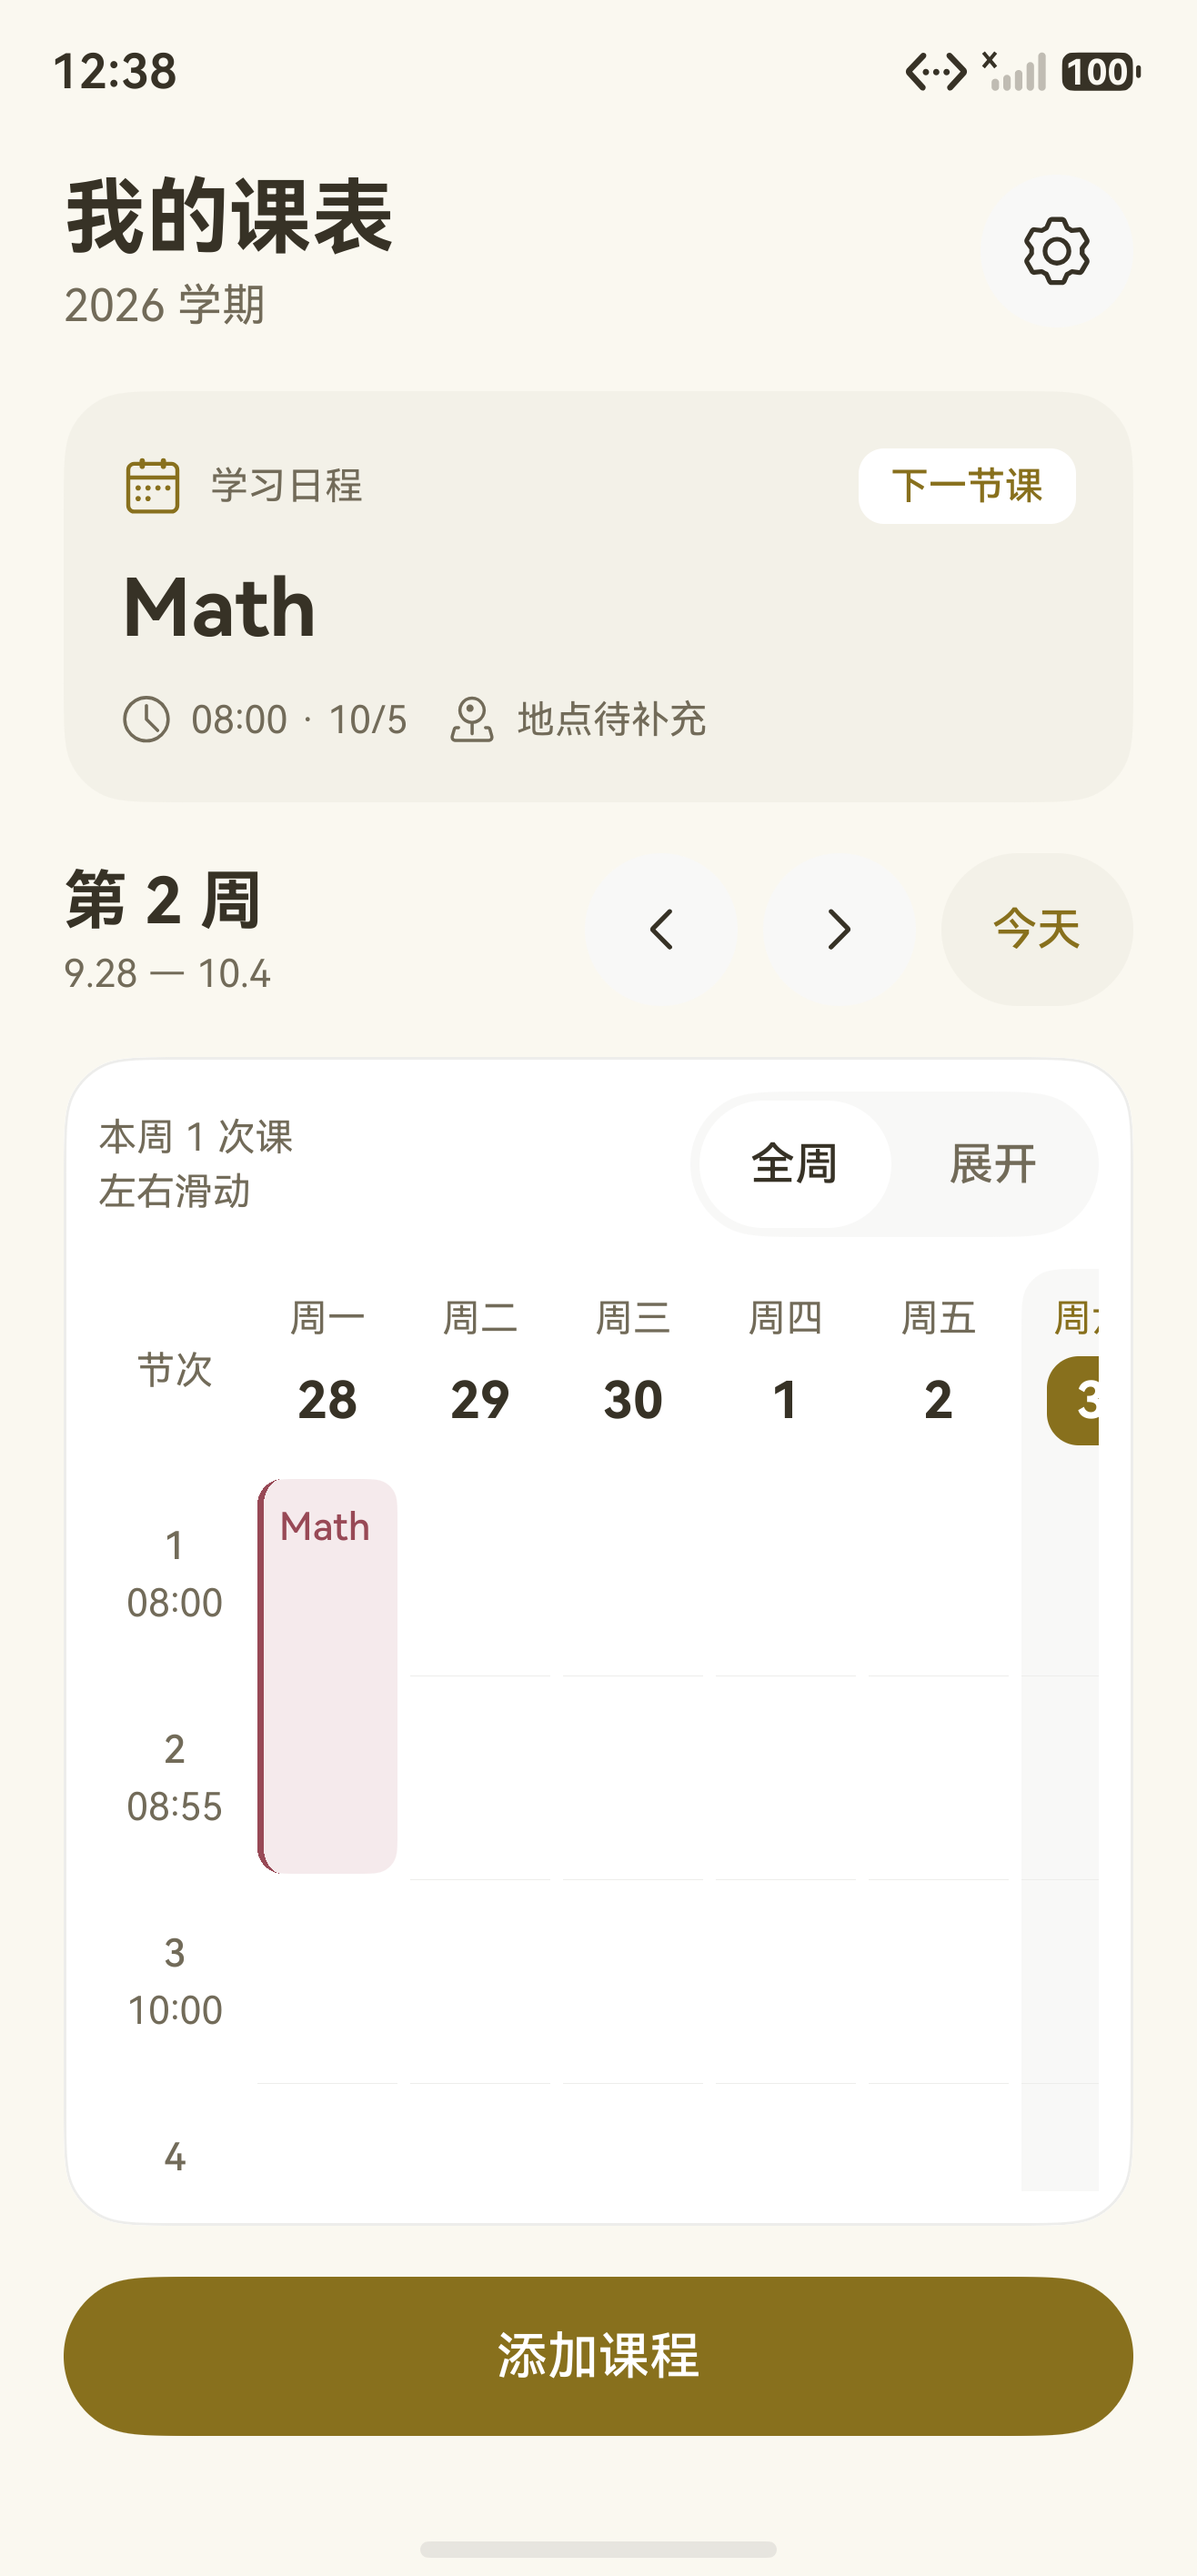
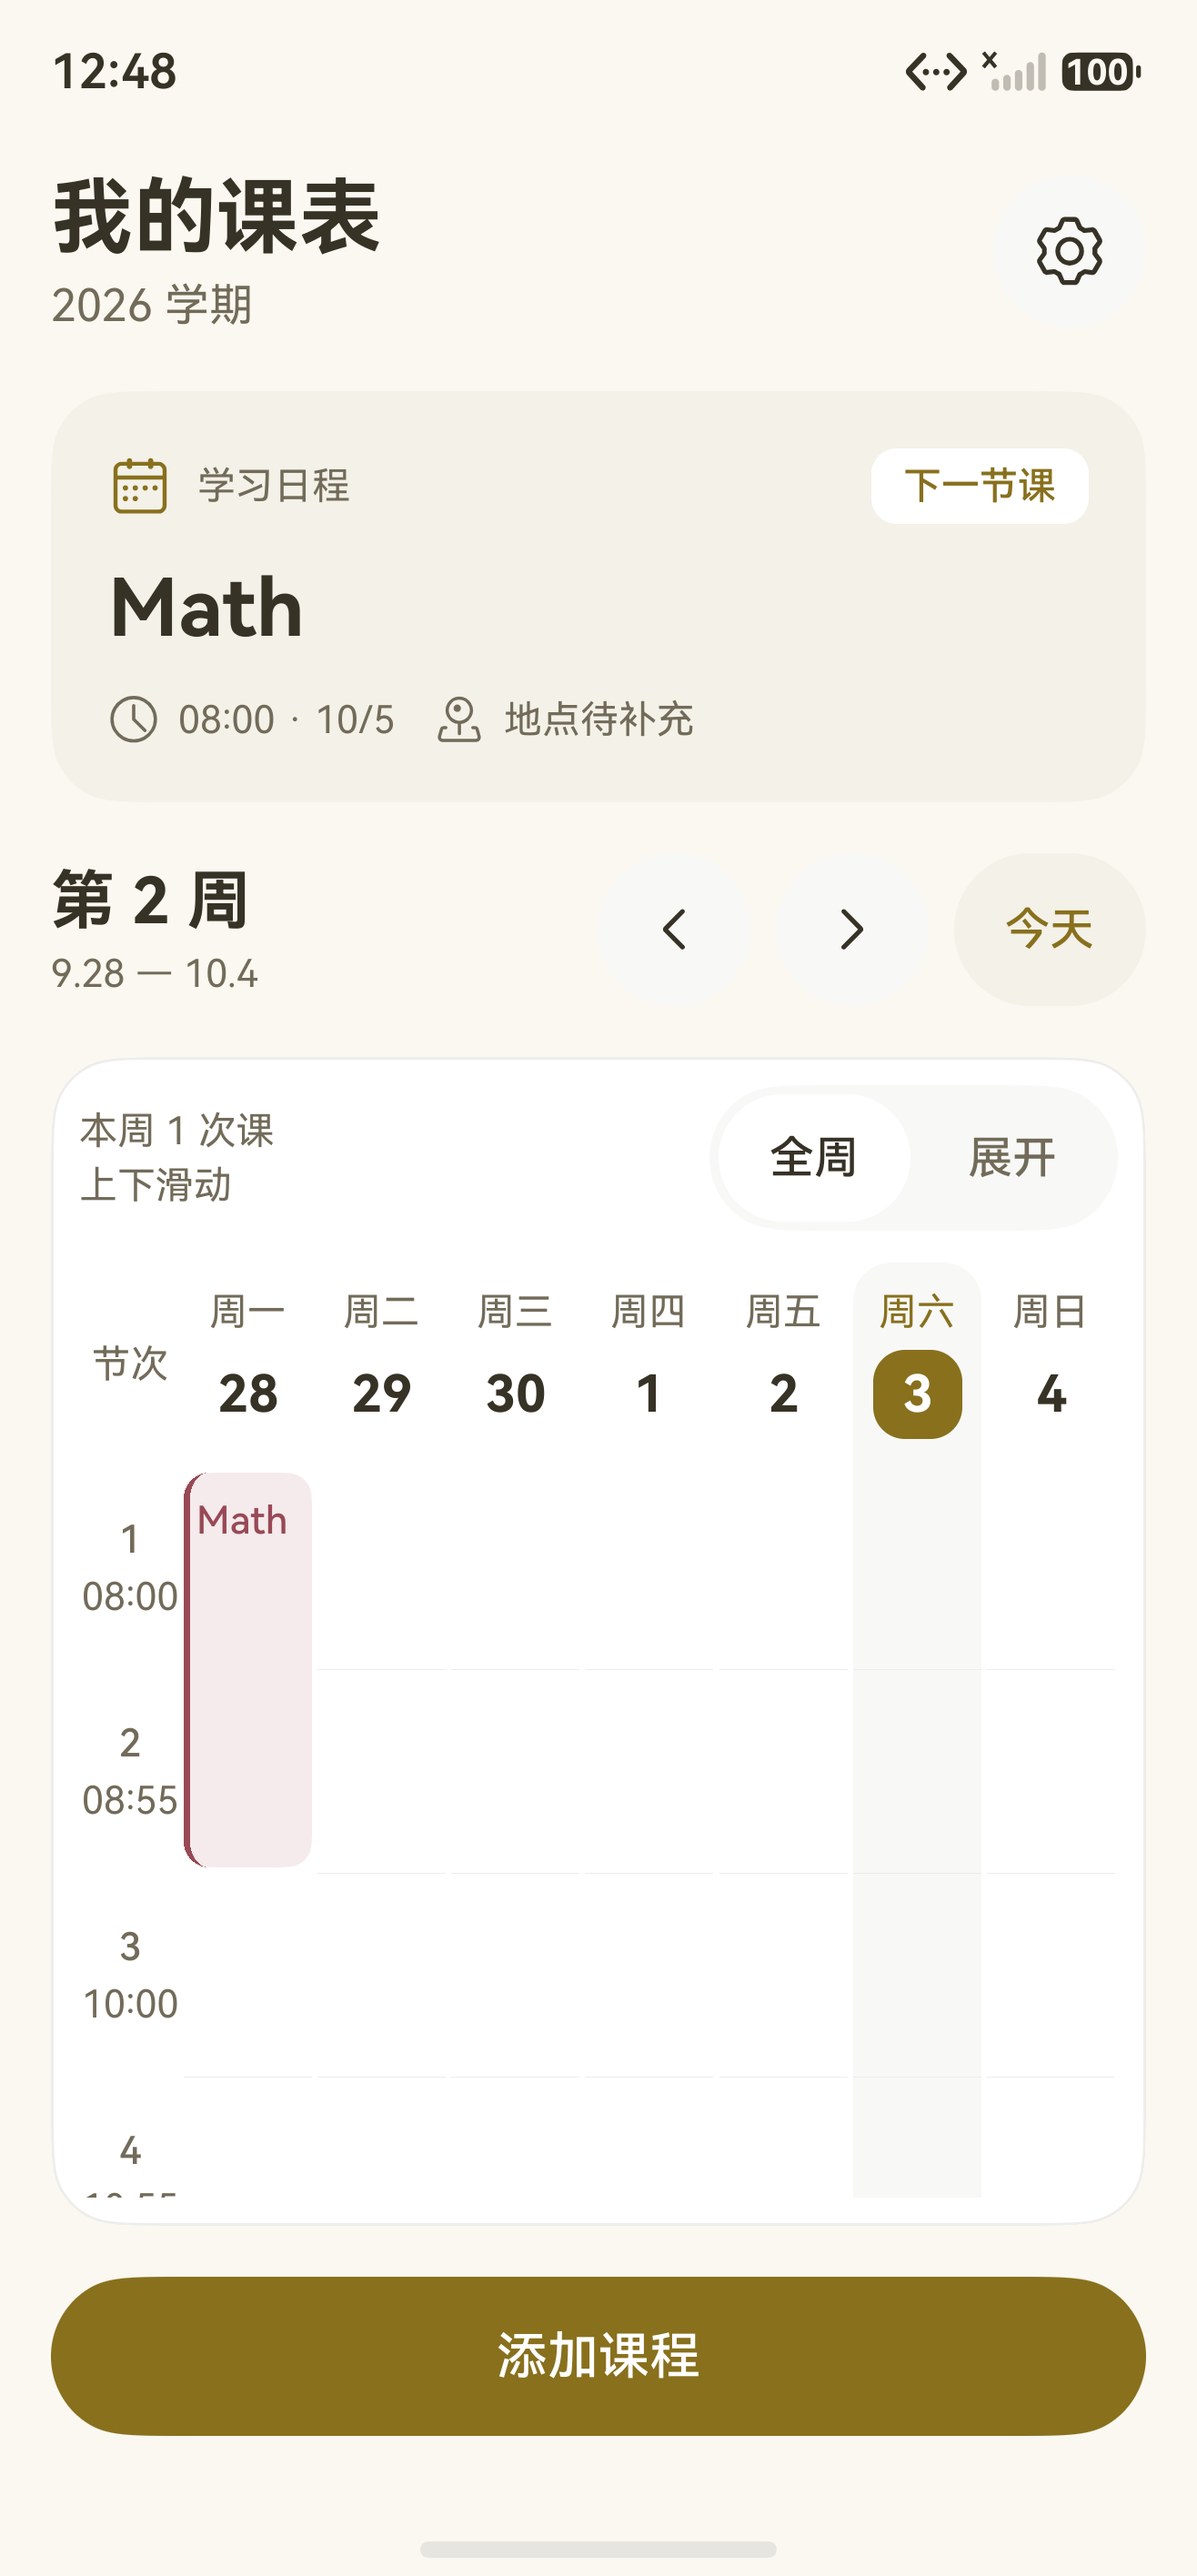
Fix full-week timetable clipping and reset horizontal scroll

diff --git a/README.md b/README.md
@@ -8,7 +8,7 @@
 - 课程添加、编辑、删除、冲突提示；全周、单双周、自定义周次；周视图、课程详情半模态、学期与作息设置。
 - 10 套主题、跟随系统深色模式。
 - 六个页面统一使用柔和配色、HarmonyOS Symbol 系统图标、圆角卡片与清晰的文字层级；课程使用浅色底与彩色边线。
-- 全周视图保持完整的七天结构，窄屏可横向浏览，可切换展开视图阅读更宽的课程卡片；节次区域支持纵向滚动。今日日期、当前节次与下一节课状态自动突出显示。
+- 全周视图按可用宽度完整显示七天；展开视图使用较宽的课程卡片并支持横向浏览，切回全周时恢复到左侧。节次区域支持纵向滚动。今日日期、当前节次与下一节课状态自动突出显示。
 - 页面进入与主题切换使用短过渡；切周、按钮按压和课程选项使用 ArkUI 原生弹簧曲线；课程详情使用内容自适应的原生半模态。
 - 下一节课、今日课程、完整周课表三类桌面卡片，各支持两种尺寸；TextClock 分钟级状态重算，数据变更时主动推送，跨天定点刷新。
 - 可选系统日历同步：申请日历权限、使用独立日历账户、按有效教学周展开日程、提供 5/10/15/30 分钟课前提醒、关闭时移除专属日历。
@@ -35,7 +35,7 @@
 
 - [标题栏](https://developer.huawei.com/consumer/cn/doc/design-guides/titlebar-0000001929628982)：首页以课表图形内容为主，采用 56 vp 普通双行标题区；二级页采用 56 vp 标题栏，说明文字放在栏下，返回入口保持一致。
 - [HarmonyOS Symbol](https://developer.huawei.com/consumer/cn/doc/design-guides/system-icons-0000001929854962)：通过 `SymbolGlyph` 使用系统图标，颜色随主题变化，装饰图标不单独进入无障碍焦点。
-- [应用 UX 体验检查](https://developer.huawei.com/consumer/cn/doc/guidebook/solution7-0000002601693441)：按点击热区至少 40 × 40 vp 的要求调整颜色、星期、节次、视图切换与关闭按钮；颜色选择采用两行布局，课表课程列宽至少 44 vp。
+- [应用 UX 体验检查](https://developer.huawei.com/consumer/cn/doc/guidebook/solution7-0000002601693441)：按点击热区至少 40 × 40 vp 的要求调整颜色、星期、节次、视图切换与关闭按钮；颜色选择采用两行布局。全周课程列随屏幕宽度分配，窄屏和大字号下可切换展开视图阅读课程名和地点。
 - [鸿蒙黑体](https://developer.huawei.com/consumer/cn/doc/design-guides/font-0000001828772001)：保留系统字体，以字重和字号区分信息层级。项目自定辅助文字下限为 12 fp，输入及主要操作为 16 fp；这里的 12 fp 是本项目的设计选择。
 - [动效属性](https://developer.huawei.com/consumer/cn/doc/design-guides/animation-attributes-0000001797117229)与[插值计算](https://developer.huawei.com/consumer/cn/doc/harmonyos-references/js-apis-curve)：按压使用 `responsiveSpringMotion()`，切周采用 `springMotion(0.35, 0.9)`。弹簧动画时长由物理参数决定，普通渐变仍使用短时长曲线。
 
@@ -48,5 +48,7 @@
 2026-10-03 的界面改版已完成编译和模拟器安装，检查了切周、返回今天、全周/展开视图、课表纵向滚动、课程详情、编辑表单与主题切换。10 套主题的浅色/深色组合中，课程文字、卡片辅助文字与主按钮文字的颜色对比度检查通过 4.5:1。新版截图：[首页](docs/ui-home.png)、[展开课表](docs/ui-expanded.png)、[深色主题](docs/ui-dark.png)、[设置](docs/ui-settings.png)、[主题选择](docs/ui-theme.png)、[课程编辑](docs/ui-course-edit.png)。模拟器输入法的首次使用协议尚未配置，本次没有新增保存课程或复测输入法操作；课程保存逻辑保持原有实现。
 
 同日按官方资料进一步调整标题栏、系统图标、文字大小、点击区域与弹簧动效，API 23 编译、课程逻辑测试及主题对比度检查通过。模拟器检查了切周、返回今天、展开视图、课表双向滚动、课程详情、颜色草稿选择及已有课程和学期值加载；未保存测试草稿，恢复了测试前的主题。当前截图：[首页](docs/harmony-home.png)、[展开课表](docs/harmony-expanded.png)、[深色](docs/harmony-dark.png)、[设置](docs/harmony-settings.png)、[课程编辑](docs/harmony-course-edit.png)、[课程选项](docs/harmony-course-options.png)、[课程详情](docs/harmony-detail.png)。
+
+另修复全周视图右侧裁切：七列按可用宽度分配，仅展开视图支持横向滚动，切回全周时归零横向偏移。已在 API 23 模拟器验证七个星期标题全部位于可见区域，并检查展开浏览后切回全周。
 
 桌面卡片入口在该模拟器中会跳转桌面，但未能在模拟器里完成卡片摆放和分钟刷新验证；实际提醒通知的送达也需在目标设备上验收。
